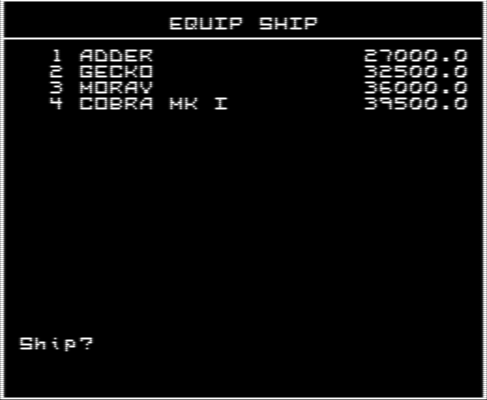
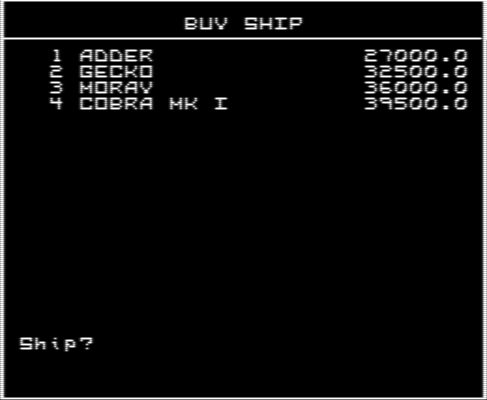
dev

Changed region(s): [[0.4312, 0.03, 0.6776, 0.09], [0.3388, 0.03, 0.4004, 0.09], [0.9856, 0.0, 1.0, 0.09]]

diff --git a/docs/instruction-manual.html b/docs/instruction-manual.html
@@ -44,6 +44,18 @@
       </div>
     </header>
 
+    <nav class="page-toc" aria-label="On this page">
+      <a href="#status-screen">Status Screen</a>
+      <a href="#inventory-screen">Inventory Screen</a>
+      <a href="#sell-equip-screen">Sell Equip Screen</a>
+      <a href="#buy-ship-screen">Buy Ship Screen</a>
+      <a href="#equip-ship-screen">Equip Ship Screen</a>
+      <a href="#in-flight-cargo-jettison">In-Flight Cargo Jettison</a>
+      <a href="#iff-transponder-and-interrogator-operations">I.F.F. Transponder and Interrogator Operations</a>
+      <a href="#bounty-display">Bounty Display</a>
+      <a href="#station-docking-procedure">Station Docking Procedure</a>
+    </nav>
+
     <main id="content">
       <aside class="infobox">
         <strong>RTFM!</strong>
@@ -51,8 +63,8 @@
         <p class="manual-note">This PDF is my own scan of the manual included with my original copy of Elite for the C64.</p>
       </aside>
 
-      <section id="expanded-status-screen">
-        <h2>Expanded Status Screen</h2>
+      <section id="status-screen">
+        <h2>Status Screen</h2>
 
         <p>The Status screen has been expanded to display additional information.</p>
 
@@ -62,15 +74,15 @@
 
         <p><strong>Ship: ADDER JS-042</strong></p>
 
-        <p>Shows the type of your current ship and its registration number.</p>
+        <p>Shows the type of your current ship and its registration ID.</p>
 
         <p><strong>EQUIPMENT (1t)</strong></p>
 
         <p>Shows the total weight of all installed equipment, excluding guided missiles. Missiles occupy dedicated slots in the ship’s hull and therefore do not take up space in the cargo hold. The total weight of installed equipment is deducted from the ship’s maximum cargo capacity. Consequently, the more equipment you install, the less room remains for cargo.</p>
       </section>
 
-      <section id="expanded-inventory-screen">
-        <h2>Expanded Inventory Screen</h2>
+      <section id="inventory-screen">
+        <h2>Inventory Screen</h2>
 
         <p>The Inventory screen has been expanded to display additional information.</p>
 
@@ -85,10 +97,10 @@
         <p>Installing a Large Cargo Bay increases the total cargo capacity by an amount that depends on the ship type. This increase is automatically included in the displayed total.</p>
       </section>
 
-      <section id="new-sell-equip-screen">
-        <h2>New Sell Equip Screen</h2>
+      <section id="sell-equip-screen">
+        <h2>Sell Equip Screen</h2>
 
-        <p><em>Elite: Unbound</em> adds a new option for selling installed ship equipment. Press <code class="nowrap">Ctrl + 2</code> while docked to open the Sell Equip screen. Equipment is bought back for 50% of its purchase price.</p>
+        <p>Installed ship equipment can now be sold. Press <code class="nowrap">Ctrl + 2</code> while docked to open the Sell Equip screen. Equipment is bought back for 50% of its purchase price.</p>
 
         <figure class="content-image">
           <img src="./assets/manual-sell-equip-screen.png" width="488" height="399" alt="Elite: Unbound Sell Equip screen offering installed equipment for sale">
@@ -100,9 +112,105 @@
           <img src="./assets/manual-sell-equip-error-screen.png" width="488" height="399" alt="Elite: Unbound Sell Equip screen showing an equipment capacity error">
         </figure>
 
-        <p>Before selling a Large Cargo Bay, the game checks whether the ship’s current load will fit within the standard cargo hold after the extension is removed. If it will not, <strong>EQUIPMENT?</strong> appears when the combined weight of cargo and installed equipment exceeds the standard capacity, while <strong>CARGO?</strong> appears when the cargo alone will not fit.</p>
+        <p>A Large Cargo Bay can be sold only if the ship’s current load will fit within the standard cargo hold after the extension is removed. Otherwise, <strong>EQUIPMENT?</strong> appears when the combined weight of cargo and installed equipment exceeds the standard capacity, while <strong>CARGO?</strong> appears when the cargo alone will not fit.</p>
 
         <p>Replacing one laser with another on the Equip Ship screen follows a different, older rule: the fitted laser is credited at 100% of its purchase price. Selling a laser directly through the Sell Equip screen returns only 50%.</p>
+      </section>
+
+      <section id="buy-ship-screen">
+        <h2>Buy Ship Screen</h2>
+
+        <p>New ships can now be purchased. Press <code class="nowrap">Ctrl + 3</code> while docked to open the Buy Ship screen.</p>
+
+        <p>The screen lists the ships currently offered for sale and their purchase prices. Availability depends on the system’s economy, with additional black-market ships offered in Anarchy systems.</p>
+
+        <figure class="content-image">
+          <img src="./assets/manual-buy-ship-screen.png" width="488" height="399" alt="Elite: Unbound Buy Ship screen listing available ships and their prices">
+        </figure>
+
+        <p>Before buying a new ship, you must sell all ordinary installed equipment, as it cannot be transferred to the new hull, along with any excess missiles that the new ship cannot carry. The Naval Energy Unit is exempt and transfers to the new ship.</p>
+
+        <p>When you purchase a new ship, your existing cargo is retained. It is then checked to ensure that it fits within the new ship’s <strong>standard cargo hold</strong>. A transferred Naval Energy Unit also counts as 1t.</p>
+
+        <p>A purchase may be rejected with one of the following messages: <strong>CASH?</strong>, <strong>EQUIPMENT?</strong>, <strong>CARGO?</strong>, or <strong>MISSILES?</strong>.</p>
+      </section>
+
+      <section id="equip-ship-screen">
+        <h2>Equip Ship Screen</h2>
+
+        <p>The <strong>I.F.F. Unit</strong> has been added to this screen and becomes available for purchase at Tech Level 7 and above.</p>
+
+        <figure class="content-image">
+          <img src="./assets/manual-equip-ship-screen.png" width="488" height="399" alt="Elite: Unbound Equip Ship screen showing the I.F.F. Unit and ship-specific equipment prices">
+        </figure>
+
+        <p>The only other change is that equipment prices now vary according to the type of ship you are flying.</p>
+
+        <p>In particularly disreputable systems, you may even find some less-than-legal options here.</p>
+      </section>
+
+      <section id="in-flight-cargo-jettison">
+        <h2>In-Flight Cargo Jettison</h2>
+
+        <p>A single 1t cargo canister can now be jettisoned while in flight. Press <code class="nowrap">Ctrl + 2</code> to open the Jettison screen.</p>
+
+        <figure class="content-image">
+          <img src="./assets/manual-jettison-screen.png" width="488" height="399" alt="Elite: Unbound in-flight cargo jettison screen">
+        </figure>
+
+        <p>Eligible cargo types are presented in turn with a <strong>(Y/N)?</strong> prompt. Any commodity carried in one-tonne canisters can be selected, except <strong>Alien Items</strong>. Confirming a choice ejects one 1t canister. The canister retains the selected commodity, so recovering it with Fuel Scoops returns the same type of cargo.</p>
+
+        <p>A successful jettison is confirmed by a beep, after which the <strong>INVENTORY</strong> screen is displayed.</p>
+
+        <p><strong class="warning-label">WARNING!</strong> Jettisoning cargo within the Safety Zone of most stations is illegal and can adversely affect your legal status.</p>
+      </section>
+
+      <section id="iff-transponder-and-interrogator-operations">
+        <h2>I.F.F. Transponder and Interrogator Operations</h2>
+
+        <p>This new device provides early warning of hostile vessels and identifies other ships.</p>
+
+        <figure class="content-image">
+          <img src="./assets/iff.png" width="485" height="399" alt="I.F.F. target identification showing a ship’s registration ID">
+        </figure>
+
+        <p>The I.F.F. Unit is fully integrated with the guided-missile targeting system and can also operate independently when no guided missiles are aboard.</p>
+
+        <p>Use <strong>I</strong> to activate the I.F.F. Unit. When guided missiles are aboard, the <strong>I</strong> key performs the same targeting function as the missile-targeting key <strong>T</strong>, and targeting proceeds in exactly the same way. Once a target is acquired, its registration ID is displayed if it is being transmitted; otherwise, <strong>??-???</strong> appears.</p>
+
+        <p>If no guided missiles remain aboard, pressing <strong>I</strong> activates the interrogator. A beep signals that it is ready to acquire a target, much like missile targeting. Once a target is acquired, its registration ID is displayed and the interrogator switches off. Press <strong>U</strong> to switch it off manually before a target is acquired.</p>
+
+        <p>Transponder operation is automatic and requires no interaction. Your ship’s registration ID is broadcast continuously.</p>
+
+        <p>Hostile contacts are also identified on the scanner.</p>
+
+        <figure class="content-image">
+          <img src="./assets/iff-hostile.png" width="280" height="104" alt="Scanner display showing an I.F.F. hostile-contact marker">
+        </figure>
+
+        <p>These contacts have a <strong>T</strong>-shaped blip head instead of the rotated <strong>L</strong> shape used for other contacts.</p>
+      </section>
+
+      <section id="bounty-display">
+        <h2>Bounty Display</h2>
+
+        <p>After a target is destroyed, the upgraded bounty display shows the bounty awarded for that target rather than your total credit balance after the reward has been added.</p>
+
+        <figure class="content-image">
+          <img src="./assets/manual-bounty.png" width="486" height="399" alt="Upgraded bounty display showing the reward for a destroyed target">
+        </figure>
+      </section>
+
+      <section id="station-docking-procedure">
+        <h2>Station Docking Procedure</h2>
+
+        <p>Stations now have a protected approach corridor extending outward from the docking entrance.</p>
+
+        <figure class="content-image">
+          <img src="./assets/docking.png" width="487" height="401" alt="A Coriolis station warning a ship about loitering in its docking corridor">
+        </figure>
+
+        <p>Any ship that loiters in this corridor receives a loitering warning from the station. No ship is cleared for launch while the corridor remains occupied.</p>
       </section>
     </main>
 

diff --git a/docs/index.html b/docs/index.html
@@ -48,6 +48,7 @@
     <nav class="page-toc" aria-label="On this page">
       <a href="#the-beginning">The Beginning</a>
       <a href="#what-is-elite-unbound">What is Elite: Unbound?</a>
+      <a href="#features">Features</a>
     </nav>
 
     <main id="content">
@@ -123,7 +124,7 @@
             <figcaption>Selling installed equipment</figcaption>
           </figure>
 
-          <p>The player now occupies a more balanced position within the game world. The Energy Bomb—an advantage unavailable to AI ships—has been removed and replaced by an IFF transponder and interrogator for identifying other vessels. Guided missiles have also been reworked, and a hit no longer automatically destroys its target.</p>
+          <p>The player now occupies a more balanced position within the game world. The Energy Bomb—an advantage unavailable to AI ships—has been removed and replaced by an I.F.F. transponder and interrogator for identifying other vessels. Guided missiles have also been reworked, and a hit no longer automatically destroys its target.</p>
 
           <p>A new career can begin in the modest Adder, which is also the default starting ship, or continue in the capable all-round Cobra Mk III. Another option is the Sidewinder: small and fragile, but fast and agile, which explains its popularity among pirates. Its speed may be the only way out of a fight. The choice of ship—and the kind of story it supports—now belongs to the player.</p>
 
@@ -145,11 +146,11 @@
 
           <p>Cargo can now be jettisoned in flight, allowing pirates to decide which spoils are worth keeping. Dumping cargo into open space is, of course, prohibited near most stations.</p>
 
-          <p>Every ship, including the player’s, now carries a unique registration number in the format <code>AA-123</code>. It is used for communication and identification, and can be displayed by the IFF system. Pirates and other questionable operators can conceal their registration, and the player may eventually discover how to do the same. The choice comes with both advantages and consequences.</p>
+          <p>Every ship, including the player’s, now carries a unique registration ID in the format <code>AA-123</code>. It is used for communication and identification, and can be displayed by the I.F.F. system. Pirates and other questionable operators can conceal their registration, and the player may eventually discover how to do the same. The choice comes with both advantages and consequences.</p>
 
           <figure class="content-image">
-            <img src="./assets/iff.png" width="485" height="399" alt="Elite: Unbound IFF identification display">
-            <figcaption>The IFF system returns the targeted ship’s registration ID</figcaption>
+            <img src="./assets/iff.png" width="485" height="399" alt="Elite: Unbound I.F.F. identification display">
+            <figcaption>The I.F.F. system returns the targeted ship’s registration ID</figcaption>
           </figure>
 
           <p>The post-docking hangar screen familiar from the BBC Micro version has also been restored.</p>
@@ -174,8 +175,42 @@
 
           <p>Existing save games from Commodore 64 <em>Elite</em> remain compatible. When loaded, they are automatically converted to the <em>Elite: Unbound</em> format.</p>
 
-          <p class="commander-signoff">Right on, Commander!</p>
         </section>
+
+        <section id="features">
+          <h2>Features</h2>
+
+          <p>Highlights of the main <em>Elite: Unbound</em> features.</p>
+
+          <ul>
+            <li>New games begin in a puny Adder</li>
+            <li>Alternative starting positions supplied as save games in C64 TAP format</li>
+            <li>Ability to buy and fly multiple ship types</li>
+            <li>Ability to sell installed ship equipment</li>
+            <li>An I.F.F. Unit replacing the Energy Bomb</li>
+            <li>Unique registration IDs for all AI-controlled ships and the player’s ship</li>
+            <li>Realistic missile damage against AI ships, with larger vessels no longer destroyed by a single missile</li>
+            <li>In-flight cargo jettison</li>
+            <li>A richer pirate experience</li>
+            <li>Randomized AI ship spawn positions</li>
+            <li>Expanded Status and Inventory screens</li>
+            <li>Bounty messages showing only the bounty awarded</li>
+            <li>A new white-themed cockpit</li>
+            <li>Protected station approach corridors</li>
+            <li>Revised station launch and docking procedures that prevent collisions with AI ships leaving the station</li>
+            <li>Basic station communications, currently covering loitering warnings and one other special case</li>
+            <li>Restored docking hangar scene from BBC Micro Elite</li>
+            <li>Concentric rectangular docking-tunnel frames replacing circular rings to better match the station’s docking aperture</li>
+            <li>Faster circle rendering, especially for planets</li>
+            <li>Improved keyboard and joystick input handling</li>
+            <li>A frame-rate limiter</li>
+            <li>Disk and tape versions</li>
+            <li>Still runs on a stock Commodore 64 without additional hardware</li>
+            <li>Compatibility with original Commodore 64 Elite save games</li>
+          </ul>
+        </section>
+
+        <p class="commander-signoff">Right on, Commanders!</p>
       </article>
     </main>
 

diff --git a/docs/galnet.html b/docs/galnet.html
@@ -44,7 +44,17 @@
       </div>
     </header>
 
-    <main id="content"></main>
+    <main id="content">
+      <article class="article-shell page-content">
+        <p class="galnet-profile"><img src="./assets/ataribaby.png" width="100" height="100" alt=""><strong>Ataribaby</strong></p>
+
+        <ul class="platform-links">
+          <li><a href="https://discord.gg/RhC6rmtcxe" target="_blank" rel="noopener noreferrer"><svg class="platform-icon" viewBox="0 0 24 24" aria-hidden="true" focusable="false"><path d="M20.32 4.37a19.8 19.8 0 0 0-4.89-1.52.08.08 0 0 0-.08.04c-.21.38-.44.86-.61 1.25a18.3 18.3 0 0 0-5.49 0 12.6 12.6 0 0 0-.62-1.25.08.08 0 0 0-.08-.04 19.74 19.74 0 0 0-4.88 1.52.07.07 0 0 0-.03.03C.53 9.05-.32 13.58.1 18.06c0 .02.01.04.03.06a19.9 19.9 0 0 0 5.99 3.03.08.08 0 0 0 .08-.03c.46-.63.87-1.3 1.23-1.99a.08.08 0 0 0-.04-.11 12.8 12.8 0 0 1-1.87-.89.08.08 0 0 1-.01-.13l.37-.29a.07.07 0 0 1 .08-.01c3.93 1.79 8.18 1.79 12.06 0a.07.07 0 0 1 .08.01l.37.29a.08.08 0 0 1-.01.13c-.6.34-1.22.64-1.87.89a.08.08 0 0 0-.04.11c.36.7.77 1.36 1.23 1.99a.08.08 0 0 0 .08.03 19.9 19.9 0 0 0 6-3.03.08.08 0 0 0 .03-.06c.5-5.18-.84-9.67-3.55-13.66a.06.06 0 0 0-.03-.03ZM8.02 15.33c-1.18 0-2.16-1.09-2.16-2.42s.96-2.42 2.16-2.42c1.21 0 2.18 1.1 2.16 2.42 0 1.33-.96 2.42-2.16 2.42Zm7.97 0c-1.18 0-2.16-1.09-2.16-2.42s.96-2.42 2.16-2.42c1.21 0 2.18 1.1 2.16 2.42 0 1.33-.95 2.42-2.16 2.42Z"></path></svg>Discord</a></li>
+          <li><a href="https://www.instagram.com/ataribaby42/" target="_blank" rel="noopener noreferrer"><svg class="platform-icon" viewBox="0 0 24 24" aria-hidden="true" focusable="false"><rect x="3" y="3" width="18" height="18" rx="5" fill="none" stroke="currentColor" stroke-width="2"></rect><circle cx="12" cy="12" r="4" fill="none" stroke="currentColor" stroke-width="2"></circle><circle cx="17.5" cy="6.5" r="1.2"></circle></svg>Instagram</a></li>
+          <li><a href="https://www.deviantart.com/ataribaby42" target="_blank" rel="noopener noreferrer"><svg class="platform-icon" viewBox="0 0 24 24" aria-hidden="true" focusable="false"><path d="M19.93 0h-4.75l-.47.47-2.28 4.35-.72.48H4.07v6.4h4.14l.42.42-4.56 8.75V24h4.75l.47-.48 2.28-4.34.72-.48h7.64v-6.4h-4.14l-.42-.42 4.56-8.75V0Z"></path></svg>DeviantArt</a></li>
+        </ul>
+      </article>
+    </main>
 
     <footer class="site-footer">
       <p>Elite: Unbound · Commodore 64 · Ataribaby 2026</p>

diff --git a/docs/download.html b/docs/download.html
@@ -44,7 +44,11 @@
       </div>
     </header>
 
-    <main id="content"></main>
+    <main id="content">
+      <article class="article-shell page-content">
+        <p>You can download the latest release from <a href="https://github.com/ataribaby42/elite-source-code-commodore-64/releases" target="_blank" rel="noopener noreferrer"><svg class="github-icon" viewBox="0 0 16 16" aria-hidden="true" focusable="false"><path d="M8 0C3.58 0 0 3.58 0 8c0 3.54 2.29 6.53 5.47 7.59.4.07.55-.17.55-.38 0-.19-.01-.82-.01-1.49-2.01.37-2.53-.49-2.69-.94-.09-.23-.48-.94-.82-1.13-.28-.15-.68-.52-.01-.53.63-.01 1.08.58 1.23.82.72 1.21 1.87.87 2.33.66.07-.53.28-.87.51-1.07-1.78-.2-3.64-.89-3.64-3.95 0-.87.31-1.59.82-2.15-.08-.2-.36-1.02.08-2.12 0 0 .67-.21 2.2.82A7.65 7.65 0 0 1 8 3.27a7.65 7.65 0 0 1 2 .27c1.53-1.04 2.2-.82 2.2-.82.44 1.1.16 1.92.08 2.12.51.56.82 1.27.82 2.15 0 3.07-1.87 3.75-3.65 3.95.29.25.54.73.54 1.48 0 1.07-.01 1.93-.01 2.2 0 .21.15.46.55.38A8.01 8.01 0 0 0 16 8c0-4.42-3.58-8-8-8Z"></path></svg>GitHub</a>.</p>
+      </article>
+    </main>
 
     <footer class="site-footer">
       <p>Elite: Unbound · Commodore 64 · Ataribaby 2026</p>

diff --git a/docs/css/style.css b/docs/css/style.css
@@ -57,6 +57,18 @@ pre {
   white-space: nowrap;
 }
 
+.github-icon {
+  width: 0.9em;
+  height: 0.9em;
+  margin-right: 0.25em;
+  vertical-align: -0.08em;
+  fill: var(--text);
+}
+
+.warning-label {
+  color: var(--link);
+}
+
 .skip-link {
   position: fixed;
   z-index: 60;
@@ -240,7 +252,7 @@ pre {
   flex-flow: row wrap;
   justify-content: flex-start;
   align-items: baseline;
-  gap: 1.25rem;
+  gap: 1.25rem 0.75rem;
   margin: 1rem 0 0;
   text-align: left;
 }
@@ -441,6 +453,43 @@ li {
 .credit-links {
   margin: 1.25rem 0;
   overflow-wrap: anywhere;
+}
+
+.galnet-profile {
+  display: flex;
+  align-items: center;
+  gap: 0.05rem;
+  margin: 0 0 1rem;
+  font-size: 1.15rem;
+}
+
+.galnet-profile img {
+  width: 2.5rem;
+  height: 2.5rem;
+}
+
+.platform-links {
+  margin: 0;
+  padding: 0 0 0 0.75rem;
+  list-style: none;
+}
+
+.platform-links li {
+  margin: 0.65rem 0;
+}
+
+.platform-links a {
+  display: inline-flex;
+  align-items: center;
+  gap: 0.45rem;
+}
+
+.platform-icon {
+  width: 1rem;
+  height: 1rem;
+  flex: 0 0 1rem;
+  color: var(--text);
+  fill: currentColor;
 }
 
 .ship-list {

diff --git a/docs/technical-info.html b/docs/technical-info.html
@@ -49,6 +49,8 @@
         <strong>Spoiler Warning!</strong>
         <p>The following text contains gameplay information and spoilers that may detract from your experience if you want to explore and discover the world of <em>Elite: Unbound</em> for yourself.</p>
       </aside>
+
+      <p>This section has yet to be written.</p>
     </main>
 
     <footer class="site-footer">
